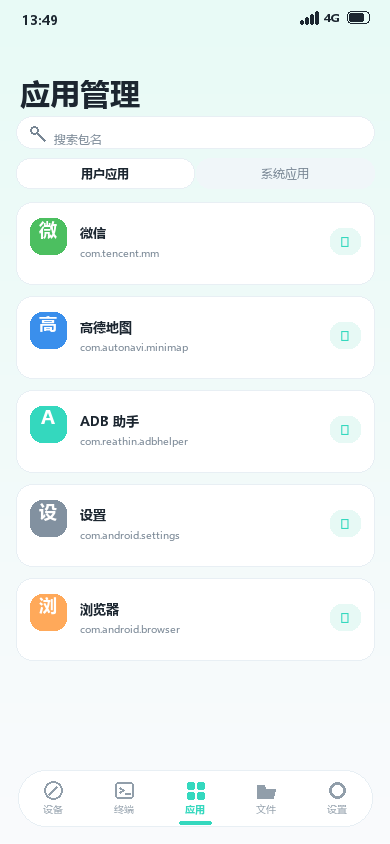
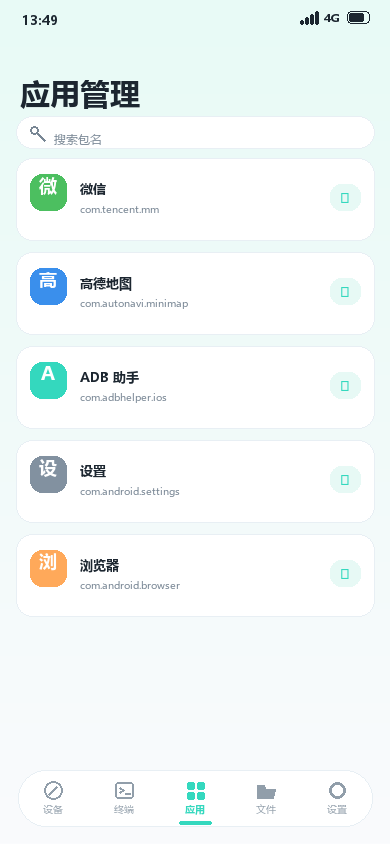
录像默认保存到相册（权限被拒时回退到文件 App）；README 改写为公开仓库版本并加 MIT 许可证；预览图去掉真实设备信息与过时标签页；下载脚本支持匿名与 --repo；版本升 1.1.5

diff --git a/ADBHelper/Views/ConnectionView.swift b/ADBHelper/Views/ConnectionView.swift
@@ -377,9 +377,46 @@ struct ConnectionView: View {
                 elapsed = 0
                 switch result {
                 case .success(let url):
-                    model.notify("录像已保存到文件 App：\(url.lastPathComponent)")
+                    saveVideoToPhotos(url)
                 case .failure(let error):
                     model.notify("保存失败：\(error.localizedDescription)")
+                }
+            }
+        }
+    }
+
+    /// 录像默认保存到系统相册；权限被拒或保存失败时把文件留在「文件」App 里，不丢数据。
+    private func saveVideoToPhotos(_ url: URL) {
+        let handleAuthorization: (@escaping (Bool) -> Void) -> Void = { done in
+            if #available(iOS 14, *) {
+                PHPhotoLibrary.requestAuthorization(for: .addOnly) { status in
+                    done(status == .authorized || status == .limited)
+                }
+            } else {
+                PHPhotoLibrary.requestAuthorization { status in
+                    done(status == .authorized || status == .limited)
+                }
+            }
+        }
+
+        handleAuthorization { allowed in
+            guard allowed else {
+                DispatchQueue.main.async {
+                    model.notify("未获得相册权限，录像已保存在「文件」App")
+                }
+                return
+            }
+            PHPhotoLibrary.shared().performChanges({
+                PHAssetChangeRequest.creationRequestForAssetFromVideo(atFileURL: url)
+            }) { success, error in
+                DispatchQueue.main.async {
+                    if success {
+                        // 相册里已有副本，删掉 App 内的临时文件，避免重复占用空间。
+                        try? FileManager.default.removeItem(at: url)
+                        model.notify("录像已保存到相册")
+                    } else {
+                        model.notify("保存到相册失败：\(error?.localizedDescription ?? "未知错误")，录像已保留在「文件」App")
+                    }
                 }
             }
         }

diff --git a/ADBHelper/Views/SettingsView.swift b/ADBHelper/Views/SettingsView.swift
@@ -71,7 +71,7 @@ struct SettingsView: View {
             Divider().overlay(AppTheme.border)
 
             VStack(spacing: 9) {
-                infoRow(icon: "tag", title: "版本", value: "1.1.4")
+                infoRow(icon: "tag", title: "版本", value: "1.1.5")
                 infoRow(icon: "key.fill", title: "授权方式", value: "RSA 2048 · 首次连接需手机确认")
                 infoRow(icon: "fingerprint", title: "密钥指纹", value: "+6IJs9ePbh2Xs2OpZYVASrfUX2IPyHryESrHqErOzmo=")
             }

diff --git a/scripts/gen_screenshots.py b/scripts/gen_screenshots.py
@@ -151,7 +151,7 @@ def device():
     d.ellipse((295, 148, 301, 154), fill=(47, 191, 113))
     text(d, (328, 152), "已连接", 10, (47, 191, 113), True, "mm")
     d.rounded_rectangle((30, 192, 360, 225), radius=10, fill=(247, 250, 252), outline=BORDER)
-    text(d, (42, 208), "192.168.1.20", 12, TEXT, False, "lm")
+    text(d, (42, 208), "192.168.1.100", 12, TEXT, False, "lm")
     text(d, (310, 208), ": 5555", 12, SUB, False, "lm")
     d.rounded_rectangle((30, 232, 200, 258), radius=13, fill=MINT)
     text(d, (115, 245), "已连接", 11, (255, 255, 255), True, "mm")
@@ -159,9 +159,9 @@ def device():
     text(d, (245, 245), "断开", 11, SUB, True, "mm")
 
     shadow_card(d, (16, 280, 374, 444))
-    section(d, 294, "设备信息", "已连接 192.168.1.20:5555", BLUE, "link")
-    items = [("型号", "D01"), ("品牌", "XPENG"), ("设备名", "Mona03"),
-             ("安卓版本", "11"), ("SDK", "30"), ("序列号", "7b388e10")]
+    section(d, 294, "设备信息", "已连接 192.168.1.100:5555", BLUE, "link")
+    items = [("型号", "Pixel 7"), ("品牌", "Google"), ("设备名", "Pixel 7"),
+             ("安卓版本", "14"), ("SDK", "34"), ("序列号", "1A2B3C4D")]
     for i, (k, v) in enumerate(items):
         x = 30 + (i % 2) * 168
         y = 336 + (i // 2) * 34
@@ -170,7 +170,7 @@ def device():
         text(d, (x + 8, y + 16), v, 11, TEXT, True)
 
     shadow_card(d, (16, 458, 374, 556))
-    section(d, 470, "截图与录像", "可随时停止 · 无声音", DANGER, "display")
+    section(d, 470, "截图与录像", "可随时停止 · 自动存相册", DANGER, "display")
     d.rounded_rectangle((30, 510, 112, 540), radius=13, fill=(231, 249, 245))
     text(d, (71, 525), "截图", 11, MINT, True, "mm")
     d.rounded_rectangle((122, 510, 204, 540), radius=13, fill=(231, 249, 245))
@@ -251,18 +251,14 @@ def apps():
     d.ellipse((30, 126, 38, 134), outline=SUB, width=2)
     d.line((37, 133, 44, 140), fill=SUB, width=2)
     text(d, (54, 131), "搜索包名", 12, SUB)
-    d.rounded_rectangle((16, 158, 194, 188), radius=14, fill=(255, 255, 255), outline=BORDER)
-    text(d, (105, 173), "用户应用", 12, TEXT, True, "mm")
-    d.rounded_rectangle((196, 158, 374, 188), radius=14, fill=(240, 246, 249))
-    text(d, (285, 173), "系统应用", 12, SUB, False, "mm")
     apps_list = [
         ("微信", "com.tencent.mm", (76, 191, 96)),
         ("高德地图", "com.autonavi.minimap", (58, 143, 236)),
-        ("ADB 助手", "com.reathin.adbhelper", (52, 216, 190)),
+        ("ADB 助手", "com.adbhelper.ios", (52, 216, 190)),
         ("设置", "com.android.settings", (130, 145, 160)),
         ("浏览器", "com.android.browser", (255, 169, 90)),
     ]
-    y = 202
+    y = 158
     for name, pkg, color in apps_list:
         d.rounded_rectangle((16, y, 374, y + 82), radius=16, fill=(255, 255, 255), outline=BORDER)
         d.rounded_rectangle((30, y + 16, 66, y + 52), radius=12, fill=color)

diff --git a/scripts/download_ipa.py b/scripts/download_ipa.py
@@ -1,12 +1,14 @@
 #!/usr/bin/env python3
-"""Download the latest unsigned IPA from the private GitHub Release.
+"""Download the latest unsigned IPA from GitHub Releases.
 
 Usage:
     python3 scripts/download_ipa.py
     python3 scripts/download_ipa.py --out /path/to/ADBHelper.ipa
+    python3 scripts/download_ipa.py --repo someone/fork --tag v1.1.4-b25
 
 Credentials: uses GITHUB_TOKEN env var if set, otherwise the first
 github.com entry in ~/.git-credentials. Never writes the token to disk.
+Public repositories work without any credentials.
 """
 import argparse
 import json
@@ -15,7 +17,7 @@ import re
 import sys
 import urllib.request
 
-REPO = "YK191/ios-adb-helper"
+REPO = os.environ.get("ADB_REPO", "YK191/ios-adb-helper")
 ASSET = "ADBHelper.ipa"
 
 
@@ -35,24 +37,24 @@ def github_token():
 
 def main():
     parser = argparse.ArgumentParser()
+    parser.add_argument("--repo", default=REPO, help="owner/repo (default: %s)" % REPO)
     parser.add_argument("--tag", default=None, help="Release tag (default: latest release)")
     parser.add_argument("--out", default=ASSET, help="Output .ipa path")
     args = parser.parse_args()
 
-    token = github_token()
-    if not token:
-        print("ERROR: no GitHub token. Set GITHUB_TOKEN or configure ~/.git-credentials")
-        sys.exit(1)
-
     headers = {
-        "Authorization": "Bearer " + token,
         "Accept": "application/vnd.github+json",
-        "User-Agent": "workbuddy",
+        "User-Agent": "adb-helper-ios",
     }
+    token = github_token()
+    if token:
+        # Public repositories work anonymously; a token simply avoids rate limits.
+        headers["Authorization"] = "Bearer " + token
+
     if args.tag:
-        url = "https://api.github.com/repos/%s/releases/tags/%s" % (REPO, args.tag)
+        url = "https://api.github.com/repos/%s/releases/tags/%s" % (args.repo, args.tag)
     else:
-        url = "https://api.github.com/repos/%s/releases/latest" % REPO
+        url = "https://api.github.com/repos/%s/releases/latest" % args.repo
     with urllib.request.urlopen(urllib.request.Request(url, headers=headers), timeout=60) as response:
         release = json.load(response)
     print("release: %s (%s)" % (release["tag_name"], release["name"]))

diff --git a/README.md b/README.md
@@ -1,10 +1,23 @@
 # ADB 助手 for iOS
 
-一个通过 Wi-Fi 连接 Android 设备无线 ADB（TCP 5555）的 iOS 应用。SwiftUI + 原生 ADB 协议实现。
+在 iPhone / iPad 上通过 Wi-Fi 调试 Android 设备的小工具：SwiftUI 界面 + 纯 Swift 实现的原生 ADB 协议（CNXN / AUTH / OPEN / WRTE + file sync），不依赖任何第三方库，也不需要电脑中转。
+
+> 未越狱的 iOS 无法访问 USB，所以本项目只支持**网络 ADB（TCP 5555）**，功能对标 Android 上的「ADB 工具」类 App。
+
+## 功能
+
+| 模块 | 说明 |
+| --- | --- |
+| 无线连接 | 输入 `IP:端口`（默认 5555），RSA 认证，连接记录一键直连 |
+| 设备信息 | 20+ 项只读属性：型号、品牌、硬件平台、内核、SELinux、活动槽、启动验证、存储、安全补丁等 |
+| 快捷控制 | 电源 / Home / 返回 / 最近任务 / 音量、亮度、DPI、分辨率、旋转、重启 |
+| Shell 终端 | 任意 `adb shell` 命令、快捷命令、命令与输出分色、可拖选复制 |
+| 应用管理 | 应用列表（含中文名）、搜索、启动、强停、冻结 / 解冻、清数据、卸载、安装 APK（带进度） |
+| 文件管理 | 浏览设备目录（含 `/data` 等系统路径）、上传、下载、删除 |
+| 截图 | `exec-out screencap -p` 纯流式取图，**不在被控设备留下任何文件**，预览后可存相册 |
+| 录像 | `screenrecord`，可随时停止；**默认自动保存到相册**，失败时回退到「文件」App |
 
 ## 界面预览
-
-> 以下图片按应用实际布局与配色整理，用于展示界面结构。
 
 | 设备 | Shell 终端 | 应用管理 |
 | --- | --- | --- |
@@ -14,50 +27,72 @@
 | --- | --- |
 | ![文件页](docs/screenshots/04-files.png) | ![设置页](docs/screenshots/05-settings.png) |
 
-预览图由 `scripts/gen_screenshots.py` 生成，修改界面样式后可用该脚本重新生成。
+预览图是脚本生成的界面示意图（`scripts/gen_screenshots.py`），换了配色或布局可以重新生成。
 
-## 功能
+## 安装
 
-| 功能 | 说明 |
-| --- | --- |
-| 无线连接 | 输入 IP:端口（默认 5555），RSA 密钥认证，连接记录 |
-| 设备信息 | 22 项只读属性：型号、品牌、硬件平台、内核、SELinux、活动槽、启动验证、存储、安全补丁等 |
-| 快捷控制 | 电源/Home/返回/最近任务/音量、亮度、DPI、分辨率、旋转、重启模式 |
-| Shell 终端 | 任意 `adb shell` 命令、快捷命令、命令历史、复制输出 |
-| 应用管理 | 用户/系统应用列表、搜索、启动、强停、冻结/解冻、清数据、卸载、安装 APK |
-| 文件管理 | 浏览设备目录、上传本地文件、下载文件到「文件」App、删除文件 |
-| 截图 / 录像 | 截图预览并保存到相册；录像只有「截图 / 录像」两个小按钮，点录像后随时可停止，MP4 自动拉取到「文件」App |
-| 日志 | 读取最近 `logcat` 缓冲 |
+### 方式一：装现成的未签名 IPA
 
-## 做不到的部分（iOS 系统限制）
+1. 到 [Releases](../../releases) 下载最新的 `ADBHelper.ipa`。
+2. 用 [Sideloadly](https://sideloadly.io/)、[AltStore](https://altstore.io/) 或自签工具（爱思助手、TrollStore 等）用你自己的 Apple ID 签名安装。
+3. 免费 Apple ID 的签名**有效期 7 天**，到期需要重新签名；付费开发者账号为 1 年。
 
-未越狱的 iOS **无法直接访问 USB 设备**，因此不能实现：
+> IPA 本身不签名，必须经你的证书重签才能装到设备上。
 
-- USB ADB（你插数据线的方式）
-- Fastboot / 刷机 / 分区操作
-- scrcpy 实时投屏、相机远控
-- Android 11+「无线调试」的配对码（SPAKE2）配对，只能连接已开放 5555 端口的设备
-- 通知栏配对后台服务
+### 方式二：自己编译
 
-这是平台能力问题，不是代码可以绕过的。
+需要 macOS + Xcode 15 以上：
 
-## 一、在 Android 上准备
+```bash
+brew install xcodegen
+xcodegen generate
+open ADBHelper.xcodeproj      # 选自己的 Team，真机运行
+```
+
+命令行打包（CI 用的就是这套，产物是未签名 IPA）：
+
+```bash
+xcodebuild -project ADBHelper.xcodeproj -scheme ADBHelper \
+  -configuration Release -destination 'generic/platform=iOS' \
+  -archivePath build/ADBHelper.xcarchive archive
+```
+
+仓库自带 GitHub Actions（`.github/workflows/build.yml`）：推到 `main` 会自动编译并把 IPA 发到 Releases，tag 形如 `v1.1.4-b25`（版本号 + 构建号），完整保留历史版本，Release 说明里自动带上本次提交记录。
+
+## 使用前提（Android 端）
 
 1. 打开「开发者选项」→ 开启「USB 调试」。
 2. 让设备监听 5555 端口，二选一：
    - 系统自带「无线 ADB」开关（部分国产 ROM 有），打开后默认端口 5555；
-   - 或者用电脑执行一次 `adb tcpip 5555`（需要 USB 连接一次，之后可拔线）。
-3. iPhone 和 Android 必须在**同一 Wi-Fi / 局域网**，且路由器不能开启 AP 隔离/访客网络隔离。
-4. 首次连接时，手机上会弹出「允许 USB 调试吗？」的 RSA 指纹确认，勾选「一律允许」后确定。
+   - 或者用电脑执行一次 `adb tcpip 5555`（需要先用 USB 连一次，之后可以拔线）。
+3. iPhone 与 Android 必须在**同一 Wi-Fi / 局域网**，且路由器不能开启 AP 隔离 / 访客网络隔离。
+4. 首次连接时手机上会弹出「允许 USB 调试吗？」的 RSA 指纹确认，勾选「一律允许」并确定。
 
-## 二、重要说明
+## 一些实现说明
 
-- 本工程内置一把 ADB RSA 私钥（`ADBHelper/AdbKeyData.swift`）。任何拿到这把密钥的人，只要你的 Android 设备曾授权过它，就能通过 Wi-Fi 连接你的设备。若介意，可运行 `python3 scripts/gen_adb_key.py` 重新生成密钥并重新编译，之后需要在每台 Android 设备上重新授权。
-- 截图通过 `exec-out screencap -p` 直接把 PNG 数据流传回 iPhone，**不会在被控设备写入任何文件**。
-- 录像使用 Android 自带的 `screenrecord`，以后台进程启动并保存 PID，点「停止录像」即发送 `SIGINT` 正常结束并拉取文件；不再设置录像时长，手动停止即可（系统自身最长约 180 秒）。录像**不含声音**，部分机型/模拟器可能不支持。`screenrecord` 必须先把 MP4 写到设备临时目录，本应用使用 `/data/local/tmp/adbhelper-*.mp4`（不进入相册/媒体库），拉取后立即删除；即使拉取失败也会尽力清理，下次连接时还会自动清理此前的残留文件。
-- 本应用应在合法设备、获得机主明确授权的前提下使用。
-- 本机没有 macOS/Swift 编译器，未经本地编译；云端 GitHub Actions（macOS）已完成一次成功编译，编译错误已修复。若以后改代码后 Actions 报错，把日志贴回来即可继续修。
-- 每次改代码 push 后，云端编译都会在 GitHub Releases 新建一个版本（tag 形如 `v1.1.1-b19`，含版本号和构建号），**保留完整版本历史**；可在 Releases 页面下载任意历史 IPA，最新一个标记为 Latest。本地会保留一份最新 IPA（`../ADBHelper.ipa`），需要手动更新时运行 `python3 scripts/download_ipa.py --out ../ADBHelper.ipa`（默认下载最新版本，也可 `--tag v1.1.1-b19` 指定版本；需本机存有 GitHub 凭据或设置 `GITHUB_TOKEN`）。
+- **截图**走 `exec-out screencap -p`，PNG 数据直接流回 iPhone，不会在被控设备写文件。
+- **录像**用系统自带的 `screenrecord`：跑在一个常开的 adb shell 通道里（`exec screenrecord`），停止时发送 `SIGINT`，让它把 MP4 的 moov 写完再退出，然后通过 sync 协议拉回本机。默认分辨率启动失败会自动降级到 `--size 1280x720`，临时目录不可写会退到 `/sdcard`；拉取完成后**立即删除设备端文件**，下次连接还会清理历史残留。
+- 录像**不含声音**，系统限制单段最长约 180 秒；停止后自动存相册，相册权限被拒时保留在「文件」App。
+- 终端使用只读 `UITextView` 渲染富文本，命令与输出分色，支持长按拖选任意内容复制。
+- 所有 ADB 操作在一条串行队列上跑，多路复用按 `localId` 分发，兼容部分 ROM 的 OKAY 参数顺序差异。
+
+## iOS 系统限制（做不到的部分）
+
+未越狱的 iOS 无法直接访问 USB 设备，因此不能实现：
+
+- USB ADB / Fastboot / 刷机 / 分区操作
+- scrcpy 实时投屏、相机远控
+- Android 11+「无线调试」的配对码（SPAKE2）配对，只能连接已开放 5555 端口的设备
+- 后台常驻通知栏服务
+
+这是平台能力问题，不是代码能绕过的。
+
+## 安全与隐私
+
+- **内置 ADB RSA 私钥**：`ADBHelper/AdbKeyData.swift` 里有一把编译进 App 的密钥。任何拿到这把密钥的人，只要某台 Android 设备曾经授权过它，就能在同一网络下连接该设备。若你不希望使用公共密钥，执行 `python3 scripts/gen_adb_key.py` 重新生成（需要 `cryptography`），再重新编译，之后每台设备需要重新授权一次。
+- **不联网上报**：应用不包含任何统计、崩溃上报或远程接口，只与你在界面里填写的设备 IP:5555 通信。
+- **不留痕迹**：截图不落盘；录像的临时文件在拉取后立即删除。
+- 请只在**自己拥有或已获得机主明确授权**的设备上使用。
 
 ## 目录结构
 
@@ -66,19 +101,37 @@ ios-adb-helper/
 ├── ADBHelper/
 │   ├── ADBHelperApp.swift       应用入口
 │   ├── AdbProtocol.swift        ADB 包协议、TCP 传输、RSA 认证
-│   ├── AdbDevice.swift          设备操作与文件同步
-│   ├── AdbKeyData.swift         生成的 RSA 密钥（勿手改）
-│   ├── Theme.swift              统一视觉风格与复用组件
-│   ├── Assets.xcassets          应用图标
-│   ├── DeviceViewModel.swift    共享状态
+│   ├── AdbDevice.swift          设备操作、文件同步、截图与录像
+│   ├── AdbKeyData.swift         内置 RSA 密钥（由脚本生成，勿手改）
+│   ├── DeviceViewModel.swift    共享状态与连接管理
 │   ├── Models.swift             数据模型
+│   ├── Theme.swift              视觉风格与复用组件
+│   ├── TerminalTextView.swift   可选中的终端文本视图
+│   ├── DocumentPicker.swift     UIKit 文件选择器
 │   ├── Info.plist
-│   └── Views/                   各个功能页面
-├── scripts/gen_adb_key.py       密钥生成脚本
-├── scripts/gen_icon.py          App 图标生成脚本
-├── scripts/gen_screenshots.py   界面预览图生成脚本
-├── scripts/download_ipa.py      从 Release 下载最新 IPA 到本地
-├── docs/screenshots/            README 界面预览图
+│   ├── Assets.xcassets          应用图标
+│   └── Views/                   设备、终端、应用、文件、设置页
+├── scripts/
+│   ├── gen_adb_key.py           生成 / 轮换 ADB 密钥
+│   ├── gen_icon.py              生成 App 图标
+│   ├── gen_screenshots.py       生成 README 预览图
+│   └── download_ipa.py          从 Releases 下载最新 IPA
+├── docs/screenshots/            预览图
 ├── project.yml                  XcodeGen 工程描述
-└── .github/workflows/build.yml   云编译配置
+└── .github/workflows/build.yml  云端编译与发版
 ```
+
+## 常见问题
+
+- **一直连不上**：先确认设备 5555 端口真的开着（`nc -z IP 5555` 或电脑上 `adb connect IP:5555`），再检查是否开启了 AP 隔离。
+- **弹不出授权框**：删掉设备上「开发者选项 → 撤销 USB 调试授权」后重连。
+- **录像失败**：界面会显示设备返回的原始报错（如 `Failed to configure video encoder`）。部分机型的 `screenrecord` 被裁剪或受 SELinux 限制，这种情况无法通过代码绕过。
+- **相册里找不到录像**：检查是否给了「添加照片」权限，权限被拒时会退回「文件」App。
+
+## License
+
+[MIT](LICENSE)
+
+## 免责声明
+
+本项目仅供学习与个人设备管理使用。请勿用于未经授权的设备；因使用本工具造成的一切后果由使用者自行承担。
